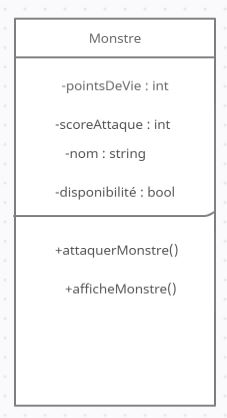
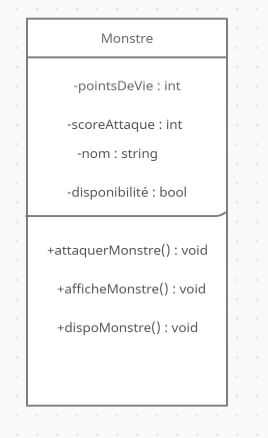
Exercice 1

diff --git a/Monstre.cpp b/Monstre.cpp
@@ -6,18 +6,56 @@
 #include "Monstre.h"
 #include <iostream>
 
-    void Monstre:afficheMonstre(){
-        std::cout << "Nom du monstre :", this->nom;
-        std::cout << "Points de vie du monstre :", this->pointsDeVie;
-        std::cout << "Score d'attaque du monstre :", this->scoreAttaque;
-        if (disponibilite == false)
-        {
-            std::cout << "Ce monstre ne peut pas attaquer";
-        }
-        else
-        {
-            std::cout << "Ce monstre peut attaquer";
-        }
+using namespace std;
+
+Monstre::Monstre() : name("Pataupe"), pointsDeVie(10), scoreAttaque(5), disponibilite(true){
+
+}
+Monstre::Monstre(std::string nomMonstre, int pdvMonstre, int degatsMonstre, bool disponibiliteMonstre) : name(nomMonstre), pointsDeVie(pdvMonstre), scoreAttaque(degatsMonstre), disponibilite(disponibiliteMonstre){
+
+}
+
+void Monstre::afficheMonstre(){
+    std::cout << "Nom du monstre :"<< nom << endl;
+    if (pointsDeVie <= 0){
+        std::cout << name << "est actuellement mort" << endl;
     }
+    else{
+        std::cout << "Points de vie du monstre :" << pointsDeVie << endl;
+    }
+    std::cout << "Score d'attaque du monstre :" << scoreAttaque << endl;
+    if (disponibilite == false)
+    {
+        std::cout << "Ce monstre ne peut pas attaquer";
+    }
+    else
+    {
+        std::cout << "Ce monstre peut attaquer";
+    }
+}
+
+void Monstre::recevoirDegats(int nbDegats){
+    pointsDeVie -= nbDegats;
+
+    if (nbDegats < 0)
+    {
+        nbDegats = 0;// La vie ne peut pas être négative
+    }
+}
+
+int Monstre::getDegats() const{
+    return scoreAttaque;
+}
+
+void Monstre::attaqueMonstre(Monstre &cible){
+    if (disponibilite == true){
+        cible.recevoirDegats(getDegats());
+    }
+    else{
+        std::cout << "Ce monstre ne peut pas attaquer";
+    }
+    
+}
+
 
 #endif   

diff --git a/Monstre.h b/Monstre.h
@@ -4,19 +4,24 @@
 #include <string>
 #include <vector>
 
+
+using namespace std;
+
 class Monstre{
 
     private:
         int pointsDeVie;
         int scoreAttaque;
-        std::string nom;
-        bool disponibilite = true;
+        std::string name;
+        bool disponibilite;
     public:
-        
-        void attaquerMonstre();
-        //renvoie le résultat de l'attaque d'un monstre sur l'autre, si il le détruit et si il se fait détruire
+        Monstre();
+        Monstre(std::string nomMonstre, int pdvMonstre, int degatsMonstre, bool disponibiliteMonstre);
         void afficheMonstre();
         // renvoie le contenu de monstre
+        void attaqueMonstre(Monstre &cible);
+        void recevoirDegats(int nbDegats);
+        int getDegats() const;
 
 }
 #endif

diff --git a/main.cpp b/main.cpp
@@ -1,3 +1,25 @@
 #include "Monstre.cpp"
 #include <iostream>
 #include <string>
+
+
+using namespace std;
+
+int main(){
+    
+    Monstre Pataupe;
+    Monstre Drakularge ("Drakularge",40,20,true);
+
+    //affiche les deux monstres crées
+    Pataupe.afficheMonstre();
+    Drakularge.afficheMonstre();
+
+    Pataupe.attaqueMonstre(Drakularge);
+    Drakularge.attaqueMonstre(Pataupe);
+
+    //La pataupe est morte normalement
+    Pataupe.afficheMonstre();
+    Drakularge.afficheMonstre();
+
+    return 0;
+}
